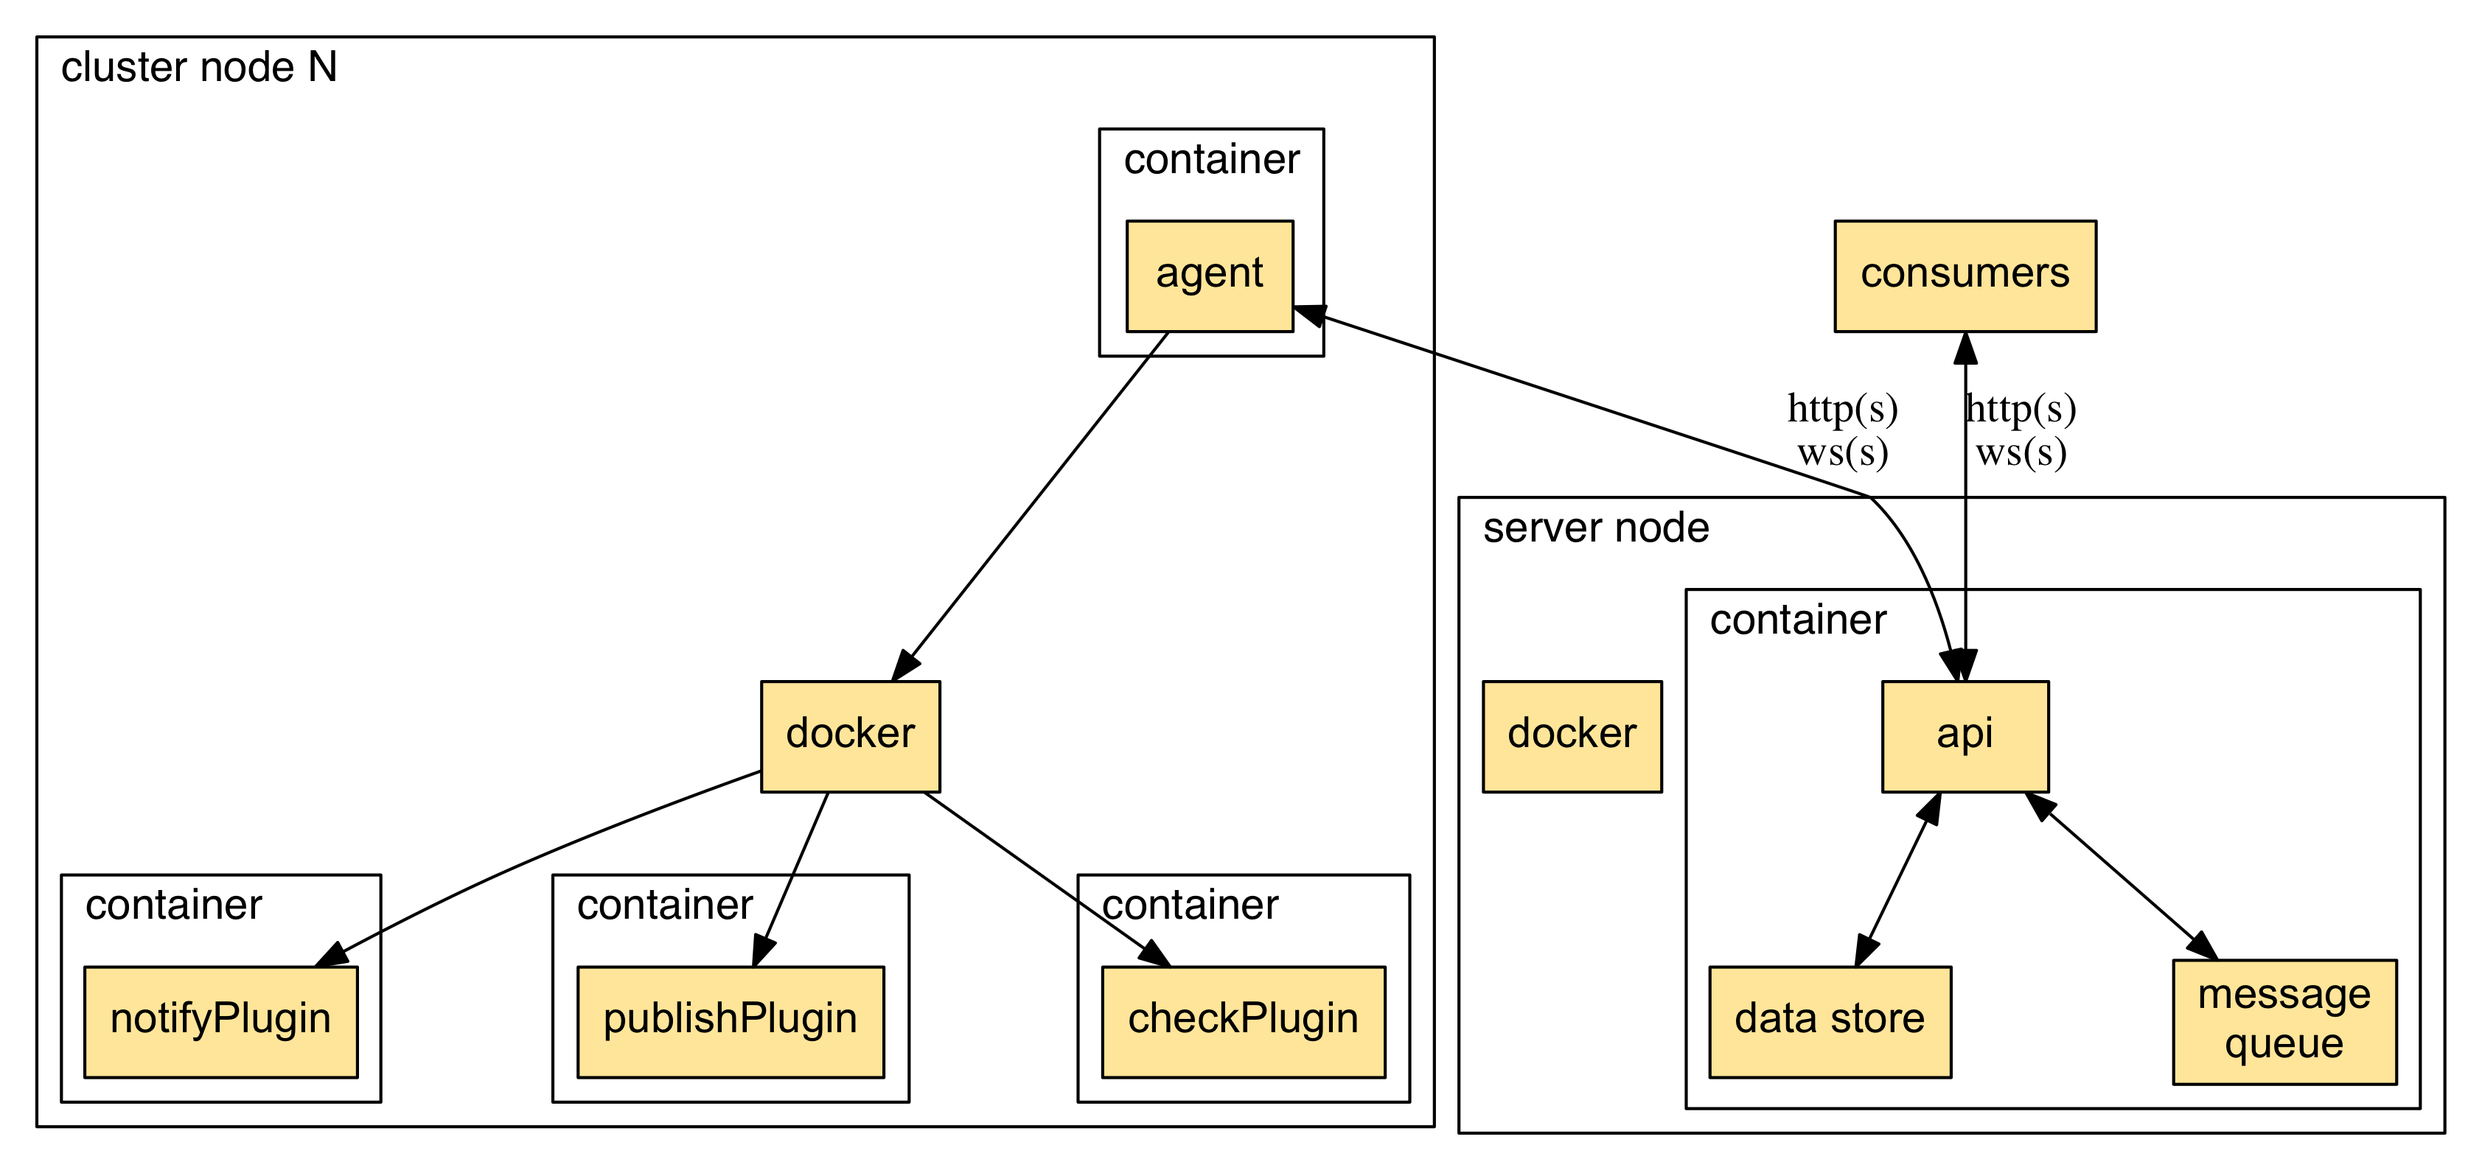
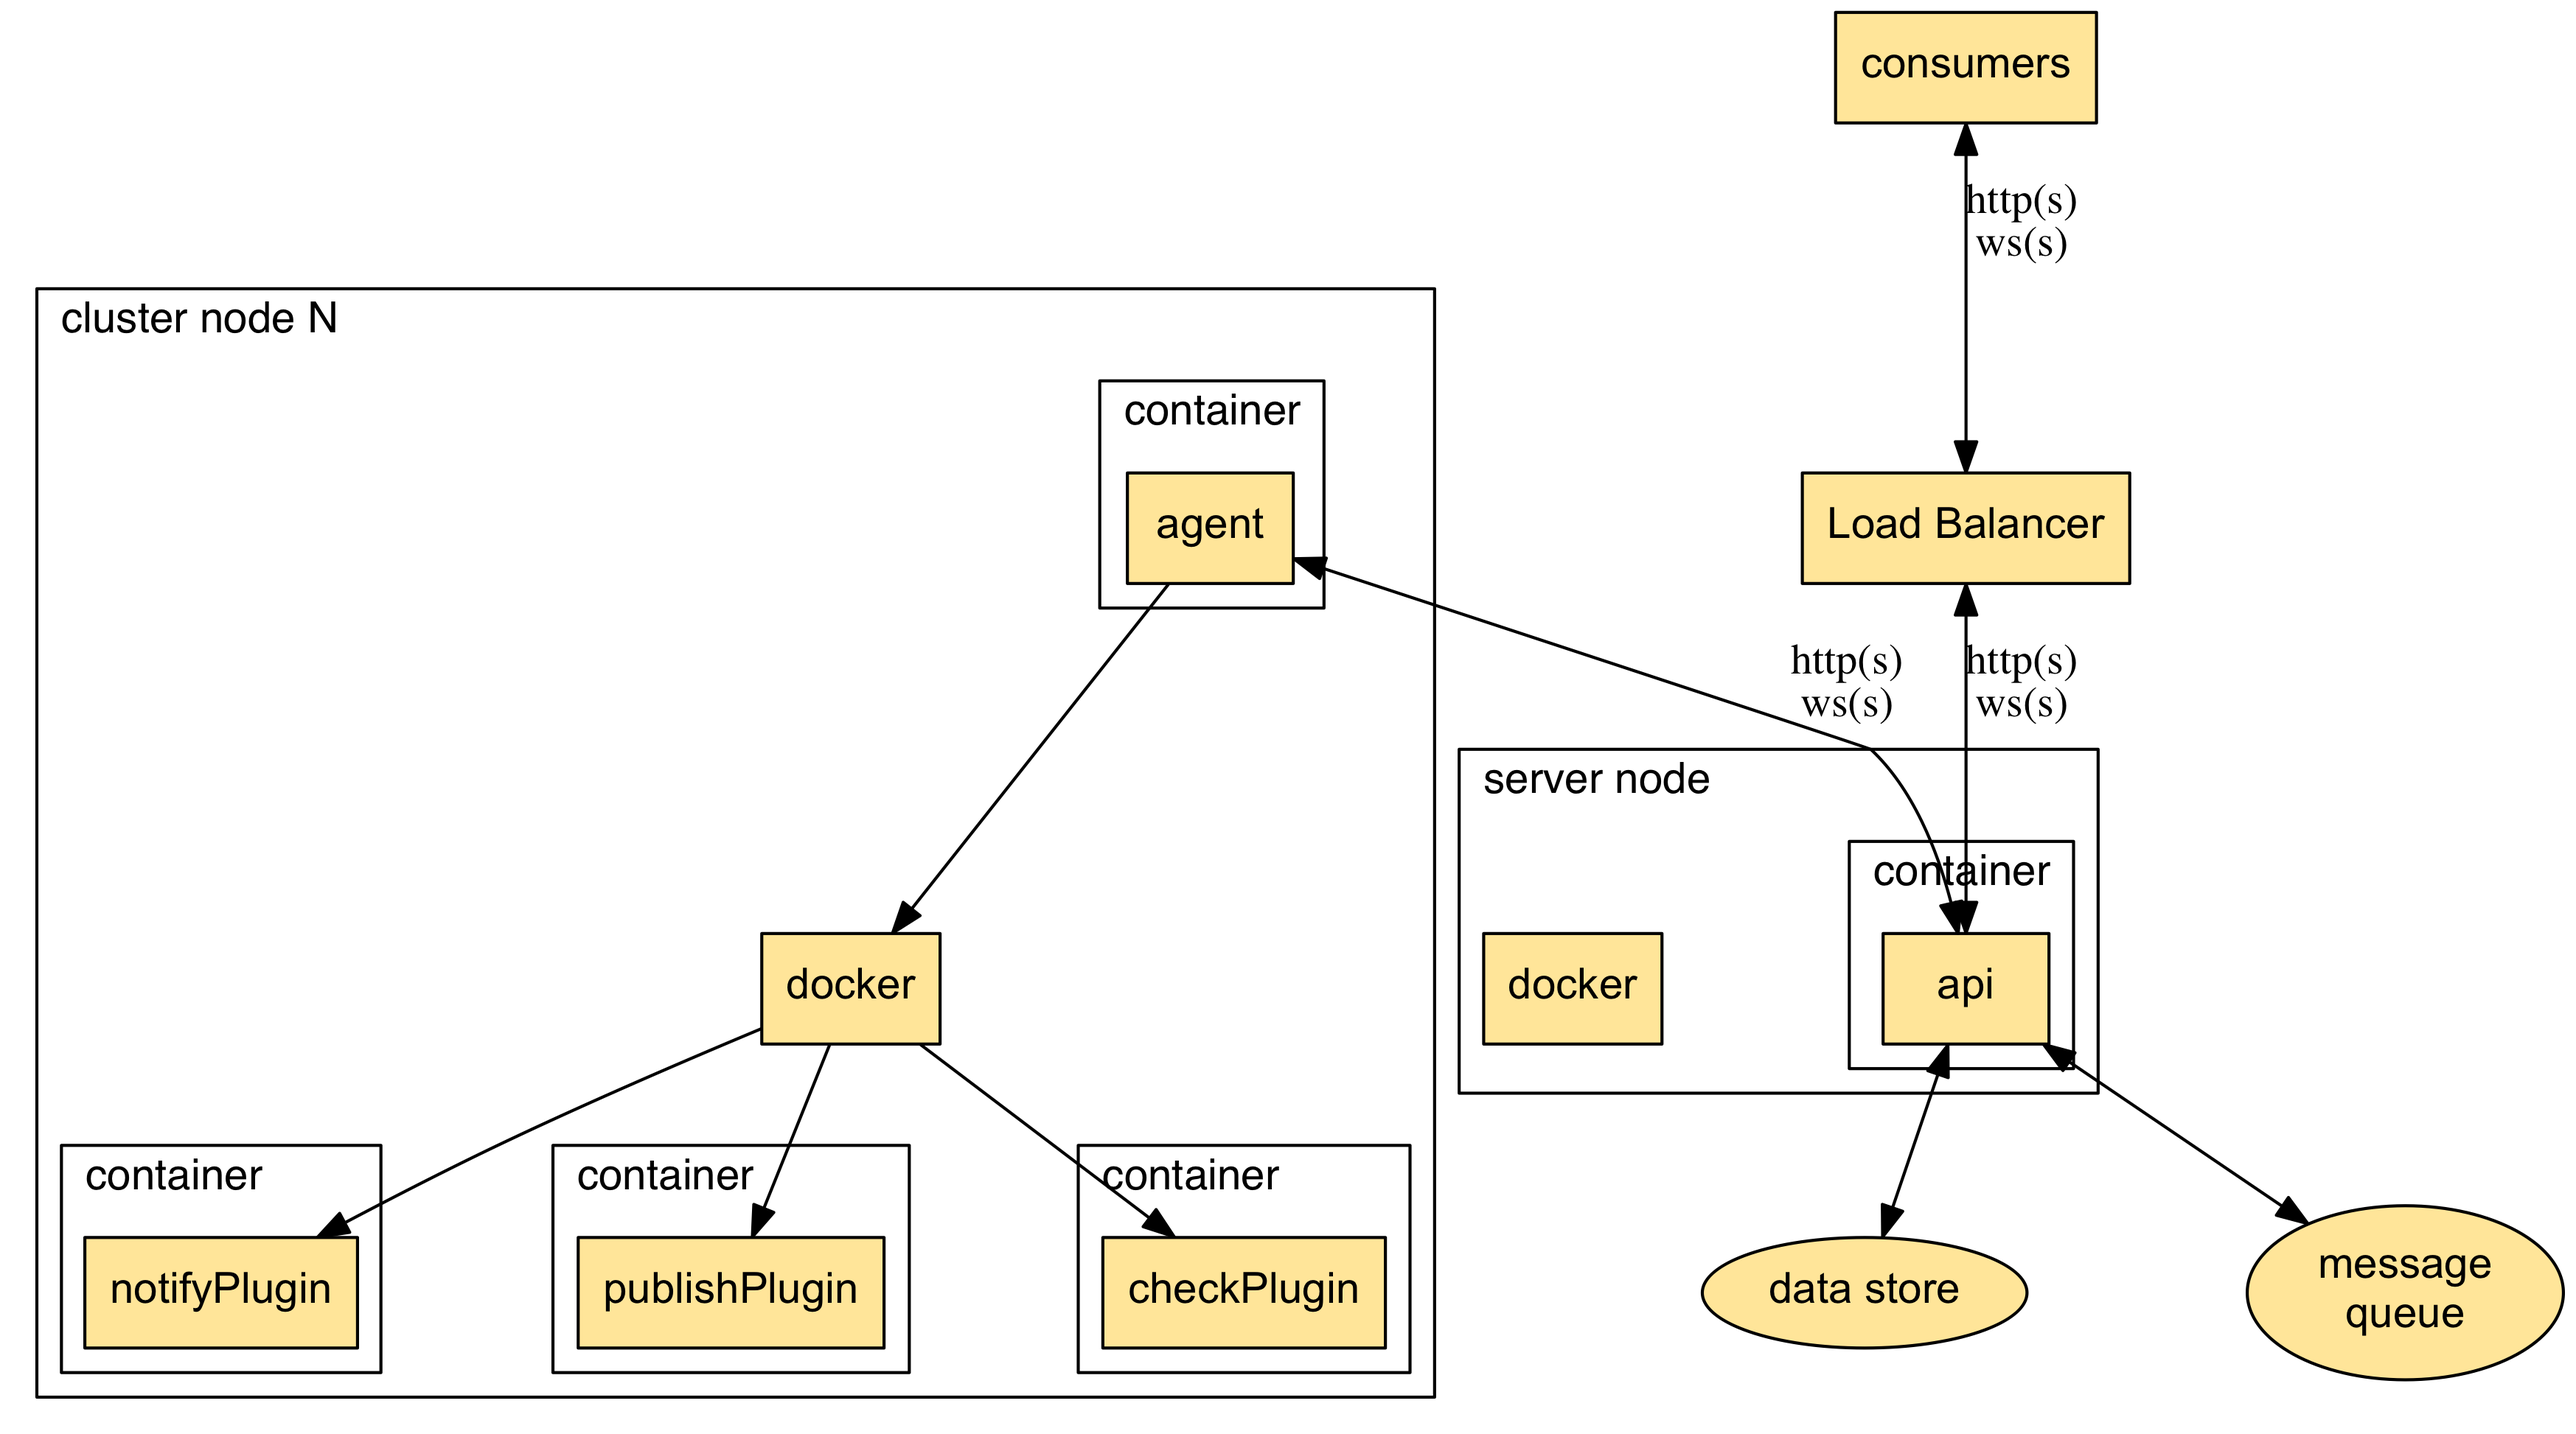
Fixing spelling and adding new docs

diff --git a/docs/design/architecture.md b/docs/design/architecture.md
@@ -32,6 +32,6 @@ The Cluster can be ran in two modes described below.
   * Default mode with a base install. Server contains the api service as well as data store and message queue.
 * **ha**
   * load balancer fronts N instances of api service (must support websockets)
-  * data store is external from server, follwing HA best practice for supported data store
-  * message queue is external from server, following HA best pracices for supported message queue provider
+  * data store is external from server, following HA best practice for supported data store
+  * message queue is external from server, following HA best practices for supported message queue provider
 
